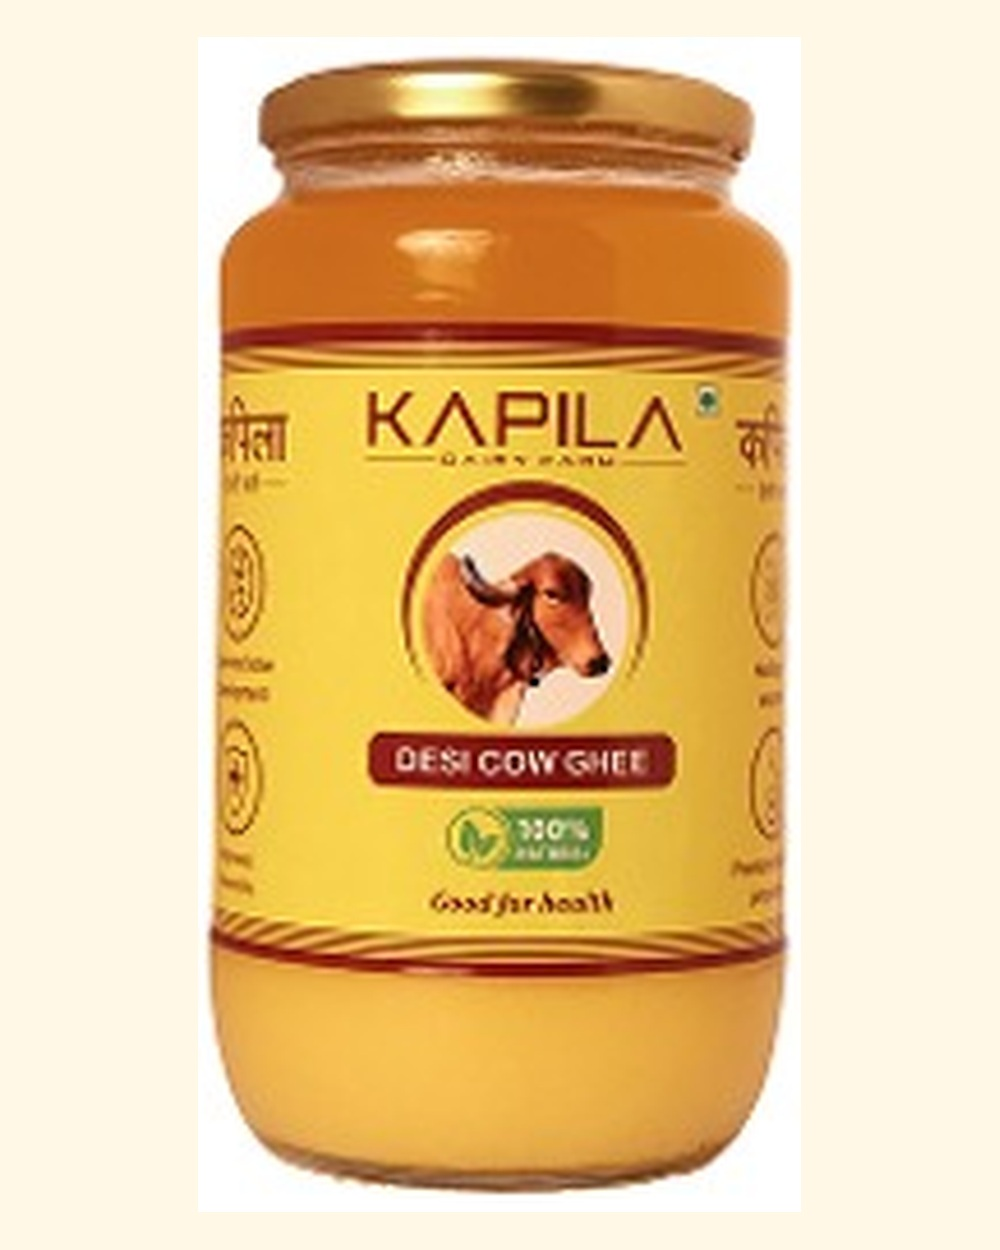
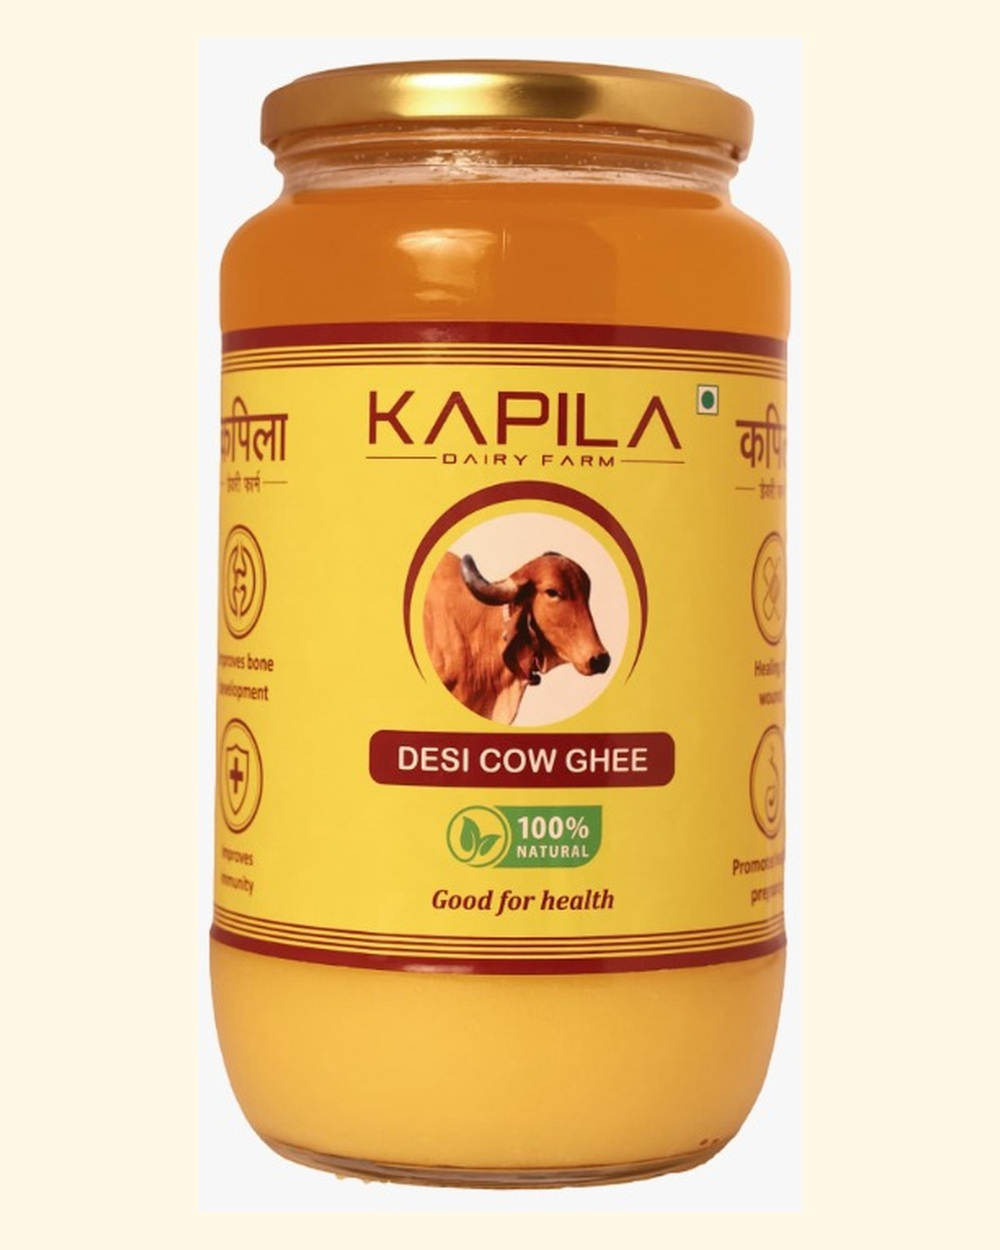
Fix blurry hero image by re-cropping from a higher-resolution source
The previous hero crop was upscaled ~4.6x from a 320x320 source photo,
which is why it looked blurred. Found a clean 900x1600 shot of the same
jar in the supplied images and re-cropped from that instead — only a
~1.6x upscale now, so it renders sharp.

diff --git a/prisma/seed.ts b/prisma/seed.ts
@@ -98,7 +98,7 @@ async function main() {
   // Hero and the product gallery don't show the exact same framing back-to-back.
   const jarHeroMedia = await db.media.upsert({
     where: { id: "media-ghee-jar-hero" },
-    update: { width: 1000, height: 1250, fileSize: 133354 },
+    update: { width: 1000, height: 1250, fileSize: 146811 },
     create: {
       id: "media-ghee-jar-hero",
       url: "/images/product/ghee-jar-hero.jpeg",
@@ -106,7 +106,7 @@ async function main() {
       width: 1000,
       height: 1250,
       fileType: "image/jpeg",
-      fileSize: 133354,
+      fileSize: 146811,
     },
   });
 
